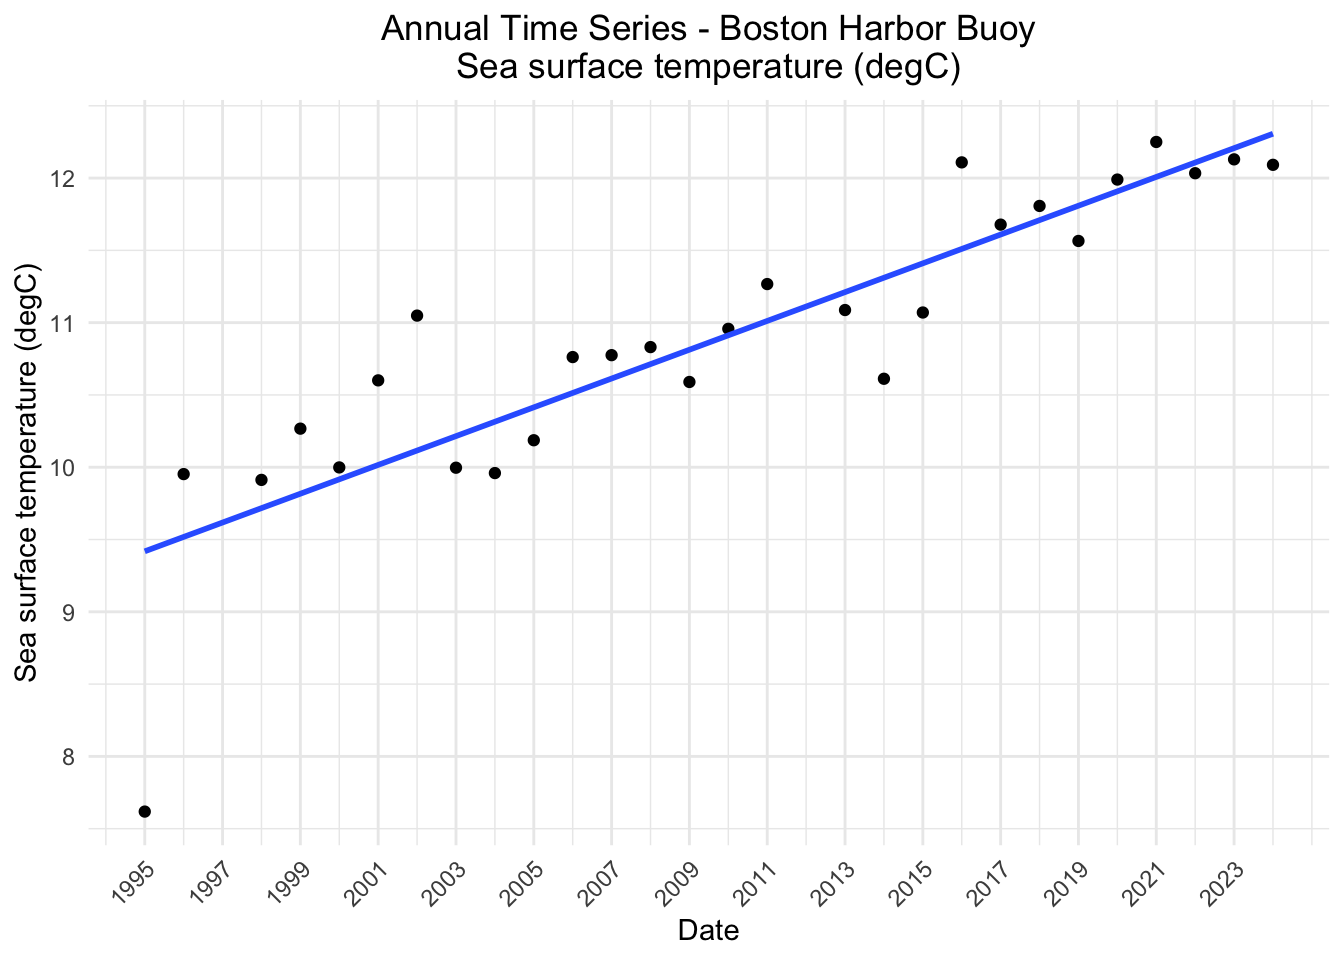
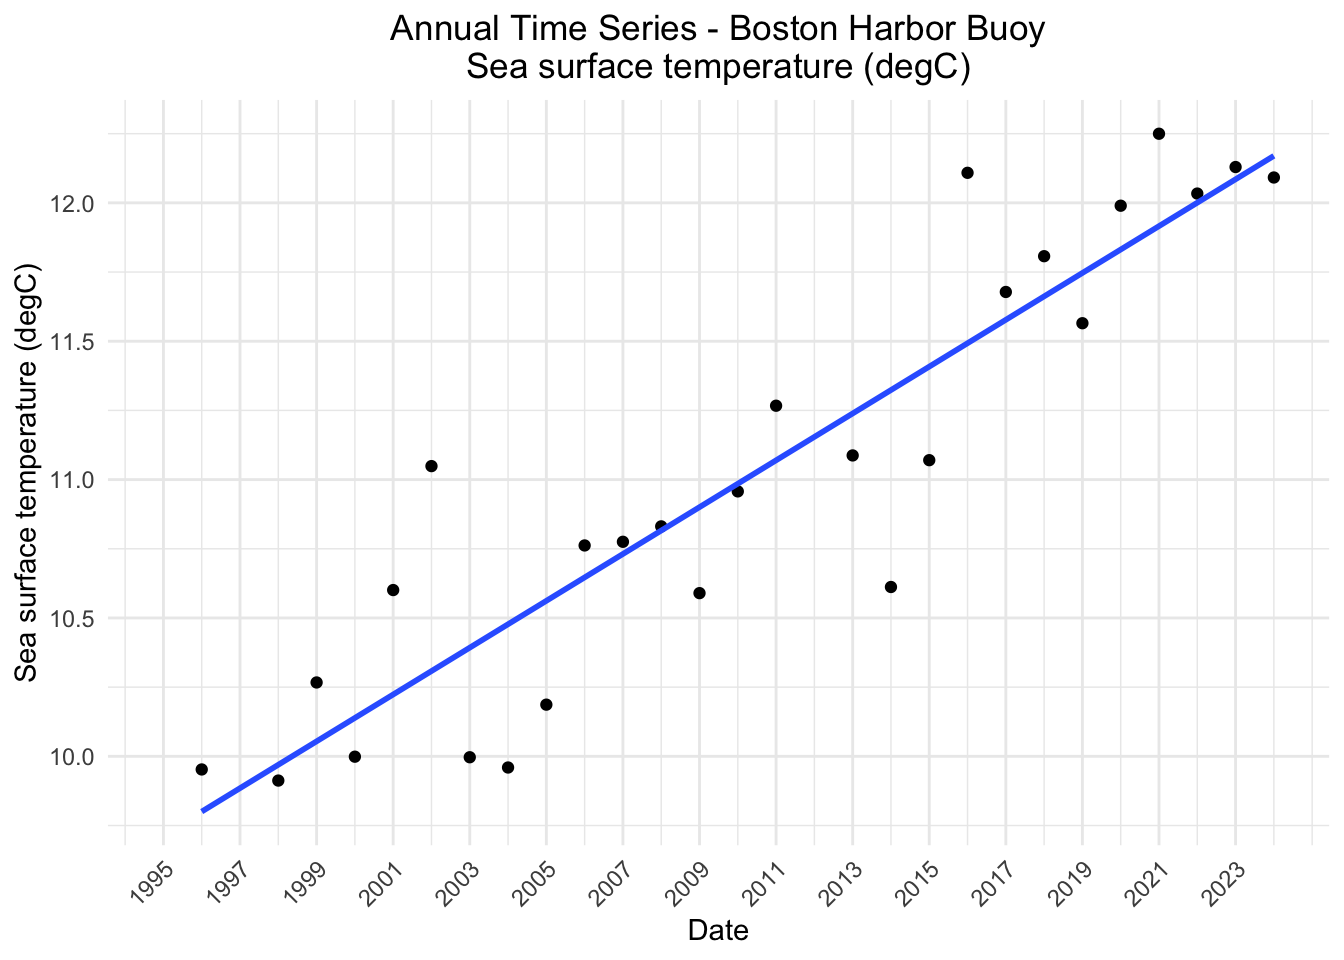
Filtered out variable years with <80% data

diff --git a/quarto_docs/buoy_44013_NDBC.html b/quarto_docs/buoy_44013_NDBC.html
@@ -445,41 +445,55 @@ pre > code.sourceCode > span > a:first-child::before { text-decoration: underlin
 <span id="cb6-6"><a href="#cb6-6" aria-hidden="true" tabindex="-1"></a><span class="co">#   summarize(count_obs = n())</span></span>
 <span id="cb6-7"><a href="#cb6-7" aria-hidden="true" tabindex="-1"></a><span class="co"># 1997 and 2012 are missing large time periods of data</span></span>
 <span id="cb6-8"><a href="#cb6-8" aria-hidden="true" tabindex="-1"></a></span>
-<span id="cb6-9"><a href="#cb6-9" aria-hidden="true" tabindex="-1"></a>  </span>
-<span id="cb6-10"><a href="#cb6-10" aria-hidden="true" tabindex="-1"></a>buoy_data_annual <span class="ot">&lt;-</span> buoy_data_daily <span class="sc">|&gt;</span> </span>
-<span id="cb6-11"><a href="#cb6-11" aria-hidden="true" tabindex="-1"></a>  <span class="fu">group_by</span>(YYYY) <span class="sc">|&gt;</span> </span>
-<span id="cb6-12"><a href="#cb6-12" aria-hidden="true" tabindex="-1"></a>  <span class="co"># 1997 and 2012 are missing large time periods of data. Excluding from annual summaries  </span></span>
-<span id="cb6-13"><a href="#cb6-13" aria-hidden="true" tabindex="-1"></a>  <span class="fu">filter</span>(<span class="sc">!</span>(YYYY <span class="sc">%in%</span> <span class="fu">c</span>(<span class="dv">1997</span>, <span class="dv">2012</span>))) <span class="sc">|&gt;</span> </span>
-<span id="cb6-14"><a href="#cb6-14" aria-hidden="true" tabindex="-1"></a>  <span class="fu">summarize</span>(</span>
-<span id="cb6-15"><a href="#cb6-15" aria-hidden="true" tabindex="-1"></a>    <span class="fu">across</span>(<span class="fu">all_of</span>(scalar_variables), <span class="sc">~</span> <span class="fu">mean</span>(.x, <span class="at">na.rm =</span> <span class="cn">TRUE</span>)),</span>
-<span id="cb6-16"><a href="#cb6-16" aria-hidden="true" tabindex="-1"></a>    <span class="fu">across</span>(<span class="fu">all_of</span>(angular_variables), <span class="sc">~</span></span>
-<span id="cb6-17"><a href="#cb6-17" aria-hidden="true" tabindex="-1"></a>             <span class="fu">as.numeric</span>(circular<span class="sc">::</span><span class="fu">mean.circular</span>(</span>
-<span id="cb6-18"><a href="#cb6-18" aria-hidden="true" tabindex="-1"></a>               circular<span class="sc">::</span><span class="fu">circular</span>(.x, <span class="at">units =</span> <span class="st">"degrees"</span>, <span class="at">modulo =</span> <span class="st">"2pi"</span>),</span>
-<span id="cb6-19"><a href="#cb6-19" aria-hidden="true" tabindex="-1"></a>               <span class="at">na.rm =</span> <span class="cn">TRUE</span>))</span>
-<span id="cb6-20"><a href="#cb6-20" aria-hidden="true" tabindex="-1"></a>    ),</span>
-<span id="cb6-21"><a href="#cb6-21" aria-hidden="true" tabindex="-1"></a>    <span class="at">.groups =</span> <span class="st">"drop"</span></span>
-<span id="cb6-22"><a href="#cb6-22" aria-hidden="true" tabindex="-1"></a>  ) <span class="sc">|&gt;</span> </span>
-<span id="cb6-23"><a href="#cb6-23" aria-hidden="true" tabindex="-1"></a>  <span class="fu">relocate</span>(WDIR, <span class="at">.before =</span> WSPD) <span class="sc">|&gt;</span> </span>
-<span id="cb6-24"><a href="#cb6-24" aria-hidden="true" tabindex="-1"></a>  <span class="fu">relocate</span>(MWD, <span class="at">.before =</span> ATMP)</span>
-<span id="cb6-25"><a href="#cb6-25" aria-hidden="true" tabindex="-1"></a></span>
-<span id="cb6-26"><a href="#cb6-26" aria-hidden="true" tabindex="-1"></a></span>
-<span id="cb6-27"><a href="#cb6-27" aria-hidden="true" tabindex="-1"></a><span class="co"># Plot annual mean values for each variable</span></span>
-<span id="cb6-28"><a href="#cb6-28" aria-hidden="true" tabindex="-1"></a><span class="cf">for</span> (var <span class="cf">in</span> variables) {</span>
-<span id="cb6-29"><a href="#cb6-29" aria-hidden="true" tabindex="-1"></a>  p <span class="ot">&lt;-</span> <span class="fu">ggplot</span>(buoy_data_annual,</span>
-<span id="cb6-30"><a href="#cb6-30" aria-hidden="true" tabindex="-1"></a>              <span class="fu">aes</span>(<span class="at">x =</span> YYYY,</span>
-<span id="cb6-31"><a href="#cb6-31" aria-hidden="true" tabindex="-1"></a>                  <span class="at">y =</span> .data[[var]])) <span class="sc">+</span></span>
-<span id="cb6-32"><a href="#cb6-32" aria-hidden="true" tabindex="-1"></a>    <span class="fu">geom_point</span>() <span class="sc">+</span></span>
-<span id="cb6-33"><a href="#cb6-33" aria-hidden="true" tabindex="-1"></a>    <span class="fu">geom_smooth</span>(<span class="at">method =</span> <span class="st">"lm"</span>, <span class="at">se =</span> <span class="cn">FALSE</span>) <span class="sc">+</span></span>
-<span id="cb6-34"><a href="#cb6-34" aria-hidden="true" tabindex="-1"></a>    <span class="fu">labs</span>(<span class="at">x =</span> <span class="st">"Date"</span>,</span>
-<span id="cb6-35"><a href="#cb6-35" aria-hidden="true" tabindex="-1"></a>         <span class="at">y =</span> variables_meta[[var]],</span>
-<span id="cb6-36"><a href="#cb6-36" aria-hidden="true" tabindex="-1"></a>         <span class="at">title =</span> <span class="fu">paste</span>(<span class="st">"Annual Time Series - Boston Harbor Buoy"</span>,</span>
-<span id="cb6-37"><a href="#cb6-37" aria-hidden="true" tabindex="-1"></a>                       variables_meta[[var]], <span class="at">sep =</span> <span class="st">"</span><span class="sc">\n</span><span class="st">"</span>)) <span class="sc">+</span></span>
-<span id="cb6-38"><a href="#cb6-38" aria-hidden="true" tabindex="-1"></a>    <span class="fu">scale_color_brewer</span>(<span class="at">palette =</span> <span class="st">"Set2"</span>) <span class="sc">+</span></span>
-<span id="cb6-39"><a href="#cb6-39" aria-hidden="true" tabindex="-1"></a>    <span class="fu">scale_x_continuous</span>(</span>
-<span id="cb6-40"><a href="#cb6-40" aria-hidden="true" tabindex="-1"></a>      <span class="at">breaks =</span> <span class="fu">seq</span>(<span class="fu">min</span>(buoy_data_annual<span class="sc">$</span>YYYY), <span class="fu">max</span>(buoy_data_annual<span class="sc">$</span>YYYY), <span class="at">by =</span> <span class="dv">2</span>))</span>
-<span id="cb6-41"><a href="#cb6-41" aria-hidden="true" tabindex="-1"></a>  </span>
-<span id="cb6-42"><a href="#cb6-42" aria-hidden="true" tabindex="-1"></a>  <span class="fu">print</span>(p)</span>
-<span id="cb6-43"><a href="#cb6-43" aria-hidden="true" tabindex="-1"></a>}</span></code><button title="Copy to Clipboard" class="code-copy-button"><i class="bi"></i></button></pre></div>
+<span id="cb6-9"><a href="#cb6-9" aria-hidden="true" tabindex="-1"></a>buoy_data_annual <span class="ot">&lt;-</span> buoy_data_daily <span class="sc">|&gt;</span> </span>
+<span id="cb6-10"><a href="#cb6-10" aria-hidden="true" tabindex="-1"></a>  <span class="fu">group_by</span>(YYYY) <span class="sc">|&gt;</span> </span>
+<span id="cb6-11"><a href="#cb6-11" aria-hidden="true" tabindex="-1"></a>  <span class="co"># 1997 and 2012 are missing large time periods of data. Excluding from annual summaries  </span></span>
+<span id="cb6-12"><a href="#cb6-12" aria-hidden="true" tabindex="-1"></a>  <span class="fu">filter</span>(<span class="sc">!</span>(YYYY <span class="sc">%in%</span> <span class="fu">c</span>(<span class="dv">1997</span>, <span class="dv">2012</span>))) <span class="sc">|&gt;</span> </span>
+<span id="cb6-13"><a href="#cb6-13" aria-hidden="true" tabindex="-1"></a>  <span class="fu">summarize</span>(</span>
+<span id="cb6-14"><a href="#cb6-14" aria-hidden="true" tabindex="-1"></a>    <span class="co"># scalar variables: only mean if ≥80% non‑NA, else NA</span></span>
+<span id="cb6-15"><a href="#cb6-15" aria-hidden="true" tabindex="-1"></a>    <span class="fu">across</span>(<span class="fu">all_of</span>(scalar_variables),</span>
+<span id="cb6-16"><a href="#cb6-16" aria-hidden="true" tabindex="-1"></a>           <span class="sc">~</span> <span class="fu">ifelse</span>(</span>
+<span id="cb6-17"><a href="#cb6-17" aria-hidden="true" tabindex="-1"></a>             <span class="fu">sum</span>(<span class="sc">!</span><span class="fu">is.na</span>(.x)) <span class="sc">&gt;=</span> <span class="fl">0.8</span> <span class="sc">*</span> <span class="fu">n</span>(),</span>
+<span id="cb6-18"><a href="#cb6-18" aria-hidden="true" tabindex="-1"></a>             <span class="fu">mean</span>(.x, <span class="at">na.rm =</span> <span class="cn">TRUE</span>),</span>
+<span id="cb6-19"><a href="#cb6-19" aria-hidden="true" tabindex="-1"></a>             <span class="cn">NA_real_</span></span>
+<span id="cb6-20"><a href="#cb6-20" aria-hidden="true" tabindex="-1"></a>           )</span>
+<span id="cb6-21"><a href="#cb6-21" aria-hidden="true" tabindex="-1"></a>    ),</span>
+<span id="cb6-22"><a href="#cb6-22" aria-hidden="true" tabindex="-1"></a>    </span>
+<span id="cb6-23"><a href="#cb6-23" aria-hidden="true" tabindex="-1"></a>    <span class="co"># angular variables: only circular‐mean if ≥80% non‑NA, else NA</span></span>
+<span id="cb6-24"><a href="#cb6-24" aria-hidden="true" tabindex="-1"></a>    <span class="fu">across</span>(<span class="fu">all_of</span>(angular_variables),</span>
+<span id="cb6-25"><a href="#cb6-25" aria-hidden="true" tabindex="-1"></a>           <span class="sc">~</span> <span class="fu">ifelse</span>(</span>
+<span id="cb6-26"><a href="#cb6-26" aria-hidden="true" tabindex="-1"></a>             <span class="fu">sum</span>(<span class="sc">!</span><span class="fu">is.na</span>(.x)) <span class="sc">&gt;=</span> <span class="fl">0.8</span> <span class="sc">*</span> <span class="fu">n</span>(),</span>
+<span id="cb6-27"><a href="#cb6-27" aria-hidden="true" tabindex="-1"></a>             <span class="fu">as.numeric</span>(</span>
+<span id="cb6-28"><a href="#cb6-28" aria-hidden="true" tabindex="-1"></a>               circular<span class="sc">::</span><span class="fu">mean.circular</span>(</span>
+<span id="cb6-29"><a href="#cb6-29" aria-hidden="true" tabindex="-1"></a>                 circular<span class="sc">::</span><span class="fu">circular</span>(.x, <span class="at">units =</span> <span class="st">"degrees"</span>, <span class="at">modulo =</span> <span class="st">"2pi"</span>)</span>
+<span id="cb6-30"><a href="#cb6-30" aria-hidden="true" tabindex="-1"></a>               )</span>
+<span id="cb6-31"><a href="#cb6-31" aria-hidden="true" tabindex="-1"></a>             ),</span>
+<span id="cb6-32"><a href="#cb6-32" aria-hidden="true" tabindex="-1"></a>             <span class="cn">NA_real_</span></span>
+<span id="cb6-33"><a href="#cb6-33" aria-hidden="true" tabindex="-1"></a>           )</span>
+<span id="cb6-34"><a href="#cb6-34" aria-hidden="true" tabindex="-1"></a>    ),</span>
+<span id="cb6-35"><a href="#cb6-35" aria-hidden="true" tabindex="-1"></a>    <span class="at">.groups =</span> <span class="st">"drop"</span></span>
+<span id="cb6-36"><a href="#cb6-36" aria-hidden="true" tabindex="-1"></a>  ) <span class="sc">|&gt;</span> </span>
+<span id="cb6-37"><a href="#cb6-37" aria-hidden="true" tabindex="-1"></a>  <span class="fu">relocate</span>(WDIR, <span class="at">.before =</span> WSPD) <span class="sc">|&gt;</span> </span>
+<span id="cb6-38"><a href="#cb6-38" aria-hidden="true" tabindex="-1"></a>  <span class="fu">relocate</span>(MWD, <span class="at">.before =</span> ATMP)</span>
+<span id="cb6-39"><a href="#cb6-39" aria-hidden="true" tabindex="-1"></a></span>
+<span id="cb6-40"><a href="#cb6-40" aria-hidden="true" tabindex="-1"></a></span>
+<span id="cb6-41"><a href="#cb6-41" aria-hidden="true" tabindex="-1"></a><span class="co"># Plot annual mean values for each variable</span></span>
+<span id="cb6-42"><a href="#cb6-42" aria-hidden="true" tabindex="-1"></a><span class="cf">for</span> (var <span class="cf">in</span> variables) {</span>
+<span id="cb6-43"><a href="#cb6-43" aria-hidden="true" tabindex="-1"></a>  p <span class="ot">&lt;-</span> <span class="fu">ggplot</span>(buoy_data_annual,</span>
+<span id="cb6-44"><a href="#cb6-44" aria-hidden="true" tabindex="-1"></a>              <span class="fu">aes</span>(<span class="at">x =</span> YYYY,</span>
+<span id="cb6-45"><a href="#cb6-45" aria-hidden="true" tabindex="-1"></a>                  <span class="at">y =</span> .data[[var]])) <span class="sc">+</span></span>
+<span id="cb6-46"><a href="#cb6-46" aria-hidden="true" tabindex="-1"></a>    <span class="fu">geom_point</span>() <span class="sc">+</span></span>
+<span id="cb6-47"><a href="#cb6-47" aria-hidden="true" tabindex="-1"></a>    <span class="fu">geom_smooth</span>(<span class="at">method =</span> <span class="st">"lm"</span>, <span class="at">se =</span> <span class="cn">FALSE</span>) <span class="sc">+</span></span>
+<span id="cb6-48"><a href="#cb6-48" aria-hidden="true" tabindex="-1"></a>    <span class="fu">labs</span>(<span class="at">x =</span> <span class="st">"Date"</span>,</span>
+<span id="cb6-49"><a href="#cb6-49" aria-hidden="true" tabindex="-1"></a>         <span class="at">y =</span> variables_meta[[var]],</span>
+<span id="cb6-50"><a href="#cb6-50" aria-hidden="true" tabindex="-1"></a>         <span class="at">title =</span> <span class="fu">paste</span>(<span class="st">"Annual Time Series - Boston Harbor Buoy"</span>,</span>
+<span id="cb6-51"><a href="#cb6-51" aria-hidden="true" tabindex="-1"></a>                       variables_meta[[var]], <span class="at">sep =</span> <span class="st">"</span><span class="sc">\n</span><span class="st">"</span>)) <span class="sc">+</span></span>
+<span id="cb6-52"><a href="#cb6-52" aria-hidden="true" tabindex="-1"></a>    <span class="fu">scale_color_brewer</span>(<span class="at">palette =</span> <span class="st">"Set2"</span>) <span class="sc">+</span></span>
+<span id="cb6-53"><a href="#cb6-53" aria-hidden="true" tabindex="-1"></a>    <span class="fu">scale_x_continuous</span>(</span>
+<span id="cb6-54"><a href="#cb6-54" aria-hidden="true" tabindex="-1"></a>      <span class="at">breaks =</span> <span class="fu">seq</span>(<span class="fu">min</span>(buoy_data_annual<span class="sc">$</span>YYYY), <span class="fu">max</span>(buoy_data_annual<span class="sc">$</span>YYYY), <span class="at">by =</span> <span class="dv">2</span>))</span>
+<span id="cb6-55"><a href="#cb6-55" aria-hidden="true" tabindex="-1"></a>  </span>
+<span id="cb6-56"><a href="#cb6-56" aria-hidden="true" tabindex="-1"></a>  <span class="fu">print</span>(p)</span>
+<span id="cb6-57"><a href="#cb6-57" aria-hidden="true" tabindex="-1"></a>}</span></code><button title="Copy to Clipboard" class="code-copy-button"><i class="bi"></i></button></pre></div>
 </details>
 <div class="cell-output-display">
 <div>
